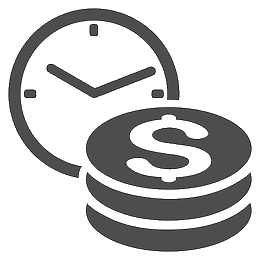
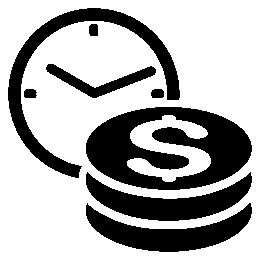
Fixed Deposit account Transaction tab

diff --git a/src/app/deposits/fixed-deposits/fixed-deposit-account-view/fixed-deposit-account-view.component.html b/src/app/deposits/fixed-deposits/fixed-deposit-account-view/fixed-deposit-account-view.component.html
@@ -90,10 +90,12 @@
       [active]="IRC.isActive">
       {{"labels.inputs.Interest Rate Chart" | translate }}
       </a>
-      <a mat-tab-link [routerLink]="['./transactions']" routerLinkActive #transactions="routerLinkActive"
-      [active]="transactions.isActive">
-      {{"labels.inputs.Transactions" | translate }}
-      </a>
+      <span *ngIf="showTransactions">
+        <a mat-tab-link [routerLink]="['./transactions']" routerLinkActive #transactions="routerLinkActive"
+        [active]="transactions.isActive">
+        {{"labels.inputs.Transactions" | translate }}
+        </a>
+      </span>
       <a mat-tab-link [routerLink]="['./charges']" routerLinkActive #charges="routerLinkActive"
       [active]="charges.isActive">
       {{"labels.inputs.Charges" | translate }}

diff --git a/src/app/deposits/fixed-deposits/fixed-deposit-account-view/transactions-tab/transactions-tab.component.ts b/src/app/deposits/fixed-deposits/fixed-deposit-account-view/transactions-tab/transactions-tab.component.ts
@@ -13,9 +13,6 @@ import { ActivatedRoute, Router } from '@angular/router';
 })
 export class TransactionsTabComponent implements OnInit {
 
-  /** Fixed Deposits Account Status */
-  status: string;
-  showTransactionsData = false;
   /** Transactions Data */
   transactionsData: any;
   /** Columns to be displayed in transactions table. */
@@ -32,8 +29,6 @@ export class TransactionsTabComponent implements OnInit {
               private router: Router) {
     this.route.parent.data.subscribe((data: { fixedDepositsAccountData: any }) => {
       this.transactionsData = data.fixedDepositsAccountData.transactions;
-      this.status = data.fixedDepositsAccountData.status.value;
-      this.showTransactionsData = (this.status === 'Active');
     });
   }
 

diff --git a/src/app/deposits/fixed-deposits/fixed-deposit-account-view/fixed-deposit-account-view.component.ts b/src/app/deposits/fixed-deposits/fixed-deposit-account-view/fixed-deposit-account-view.component.ts
@@ -36,6 +36,7 @@ export class FixedDepositAccountViewComponent implements OnInit {
   /** Entity Type */
   entityType: string;
   currency: Currency;
+  showTransactions = false;
 
   /**
    * Fetches fixed deposits account data from `resolve`
@@ -54,6 +55,8 @@ export class FixedDepositAccountViewComponent implements OnInit {
       this.fixedDepositsAccountData = data.fixedDepositsAccountData;
       this.savingsDatatables = data.savingsDatatables;
       this.currency = this.fixedDepositsAccountData.currency;
+      const status: any = data.fixedDepositsAccountData.status;
+      this.showTransactions = (status.id >= 300);
     });
     if (this.router.url.includes('clients')) {
       this.entityType = 'Client';

diff --git a/src/app/deposits/fixed-deposits/fixed-deposit-account-view/transactions-tab/transactions-tab.component.html b/src/app/deposits/fixed-deposits/fixed-deposit-account-view/transactions-tab/transactions-tab.component.html
@@ -1,4 +1,4 @@
-<div class="tab-container mat-typography" *ngIf="showTransactionsData">
+<div class="tab-container mat-typography">
 
   <div fxLayoutAlign="start">
     <div class="m-b-20">
